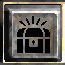
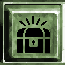
Info button added

diff --git a/src/RenderManager.cpp b/src/RenderManager.cpp
@@ -69,6 +69,7 @@ void RenderManager::PlayStateRender()
 
 	Draw(mSystem.GUIMgr.GetButton(BUTTONS::MUTE_BUTTON_ID).GetSprite());
 	Draw(mSystem.GUIMgr.GetButton(BUTTONS::UPGRADE_BUTTON_ID).GetSprite());
+	Draw(mSystem.GUIMgr.GetButton(BUTTONS::INFO_BUTTON_ID).GetSprite());
 
 	Draw(mSystem.GUIMgr.GetButton(BUTTONS::CLOSE_BUTTON_ID).GetSprite());
 	Draw(mSystem.GUIMgr.GetButton(BUTTONS::MINI_BUTTON_ID).GetSprite());
@@ -223,6 +224,31 @@ void RenderManager::DrawToolTip(sf::Vector2f mousePos)
 
 		float xPos = mousePos.x - (backgroundRect.getSize().x / 2.f);
 		float yPos = mousePos.y - backgroundRect.getSize().y - 10.f;
+		backgroundRect.setPosition(xPos, yPos);
+
+		tooltipText.setPosition(xPos + 10.f, yPos + 5.f);
+
+		mSystem.RenderMgr.Draw(backgroundRect);
+		mSystem.RenderMgr.Draw(tooltipText);
+	}
+	if (mSystem.GUIMgr.GetButton(BUTTONS::INFO_BUTTON_ID).GetSprite().getGlobalBounds().contains(mousePos))
+	{
+		sf::Text tooltipText;
+		tooltipText.setFont(mSystem.AssetMgr.GetFont(FONTS::LIGHT));
+		tooltipText.setString("        | How to Play |\n\n   Collect all the items\nby clicking on the chests.\n  Click ~Next Level~ to\n            move on.\n    Collect Gold and to\n       upgrade levels.\n  Use the Upgrade to add\n      up to four chests.\n\n           | Hotkeys |\n          M: Mute all\n      I: Open Inventory\n       U: Upgrade Level\n         N: Next Level");
+		tooltipText.setCharacterSize(25);
+		tooltipText.setFillColor(sf::Color::White);
+
+		sf::FloatRect textBounds = tooltipText.getLocalBounds();
+		float textWidth = textBounds.width;
+		float textHeight = textBounds.height;
+
+		sf::RectangleShape backgroundRect;
+		backgroundRect.setSize(sf::Vector2f(textWidth + 20.f, textHeight + 20.f));
+		backgroundRect.setFillColor(sf::Color(0, 0, 0, 200));
+
+		float xPos = mousePos.x - (backgroundRect.getSize().x / 2.f - 280.f);
+		float yPos = mousePos.y - backgroundRect.getSize().y + 280.f;
 		backgroundRect.setPosition(xPos, yPos);
 
 		tooltipText.setPosition(xPos + 10.f, yPos + 5.f);

diff --git a/src/AssetManager.cpp b/src/AssetManager.cpp
@@ -38,6 +38,7 @@ void AssetManager::InitializeTextureSprites()
     mTextures[TEXTURES::SORT_BUTTON]->loadFromFile("assets/graphics/sortbutton.png");
     mTextures[TEXTURES::CLOSE_BUTTON]->loadFromFile("assets/graphics/closebutton.png");
     mTextures[TEXTURES::MINI_BUTTON]->loadFromFile("assets/graphics/minibutton.png");
+    mTextures[TEXTURES::INFO_BUTTON]->loadFromFile("assets/graphics/infobutton.png");
     mTextures[TEXTURES::CHESTCLOSED]->loadFromFile("assets/graphics/chestclosed.png");
     mTextures[TEXTURES::CHESTOPENED]->loadFromFile("assets/graphics/chestopened.png");
     // MAPS
@@ -161,6 +162,7 @@ void AssetManager::InitializeTextureSprites()
     mSprites[SPRITES::SORT_BUTTON]->setTexture(GetTexture(TEXTURES::SORT_BUTTON));
     mSprites[SPRITES::CLOSE_BUTTON]->setTexture(GetTexture(TEXTURES::CLOSE_BUTTON));
     mSprites[SPRITES::MINI_BUTTON]->setTexture(GetTexture(TEXTURES::MINI_BUTTON));
+    mSprites[SPRITES::INFO_BUTTON]->setTexture(GetTexture(TEXTURES::INFO_BUTTON));
     // INVENTORY
     mSprites[SPRITES::INVENTORY]->setTexture(GetTexture(TEXTURES::INVENTORY));
     // PARTICLE
@@ -626,7 +628,7 @@ sf::Color AssetManager::GetColorForItemText(std::pair<ITEMID::ITEM, ITEMRARITY::
     }                         
 }
 
-sf::Color AssetManager::GetTextboxColor()
+sf::Color AssetManager::GetTextboxColor() const
 {
     return mTextboxColor;
 }
@@ -641,6 +643,7 @@ sf::Sprite& AssetManager::GetSpriteForButton(BUTTONS::BUTTON_TYPE button)
     case BUTTONS::SORT: return *mSprites[SPRITES::SORT_BUTTON];
     case BUTTONS::CLOSE: return *mSprites[SPRITES::CLOSE_BUTTON];
     case BUTTONS::MINI: return *mSprites[SPRITES::MINI_BUTTON];
+    case BUTTONS::INFO: return *mSprites[SPRITES::INFO_BUTTON];
     default: return *mSprites[SPRITES::INVENTORY_BUTTON];
     }
 }

diff --git a/src/GUIManager.cpp b/src/GUIManager.cpp
@@ -50,6 +50,7 @@ void GUIManager::ButtonInit()
     mButtons[BUTTONS::SORT_BUTTON_ID] = MakeSquareButton(BUTTONS::SORT, { 1700.f, 940.f });
     mButtons[BUTTONS::OPEN_INVENTORY_ID] = MakeButton(BUTTONS::WIDE, BUTTONS::OPEN_INVENTORY, mWindowCenter + sf::Vector2f{ 660.f, 500.f });
     mButtons[BUTTONS::MUTE_BUTTON_ID] = MakeSquareButton(BUTTONS::MUTE, {100.f,100.f});
+    mButtons[BUTTONS::INFO_BUTTON_ID] = MakeSquareButton(BUTTONS::INFO, {100.f,192.f});
     mButtons[BUTTONS::UPGRADE_BUTTON_ID] = MakeSquareButton(BUTTONS::UPGRADE, { 192.f, 100.f }); 
     mButtons[BUTTONS::CLOSE_BUTTON_ID] = MakeSquareButton(BUTTONS::CLOSE, { 1890.f, 30.f }); 
     mButtons[BUTTONS::MINI_BUTTON_ID] = MakeSquareButton(BUTTONS::MINI, { 1840.f, 30.f });
@@ -79,6 +80,7 @@ void GUIManager::PlayStateUpdate(sf::Vector2f mousePos, bool isClicked)
     mButtons[BUTTONS::OPEN_INVENTORY_ID]->HandleEvent(mousePos, isClicked);
     mButtons[BUTTONS::EXIT_PLAY_ID]->HandleEvent(mousePos, isClicked);
     mButtons[BUTTONS::MUTE_BUTTON_ID]->HandleEvent(mousePos, isClicked);
+    mButtons[BUTTONS::INFO_BUTTON_ID]->HandleEvent(mousePos, isClicked);
     mButtons[BUTTONS::UPGRADE_BUTTON_ID]->HandleEvent(mousePos, isClicked);
     mButtons[BUTTONS::SORT_BUTTON_ID]->HandleEvent(mousePos, isClicked);
     mButtons[BUTTONS::CLOSE_BUTTON_ID]->HandleEvent(mousePos, isClicked);

diff --git a/include/Assets.h b/include/Assets.h
@@ -12,6 +12,7 @@ namespace TEXTURES
 		SORT_BUTTON,
 		CLOSE_BUTTON,
 		MINI_BUTTON,
+		INFO_BUTTON,
 		INVENTORY,
 		WINSCREEN,
 		CHESTCLOSED,
@@ -122,6 +123,7 @@ namespace SPRITES
 		SORT_BUTTON,
 		CLOSE_BUTTON,
 		MINI_BUTTON,
+		INFO_BUTTON,
 		INVENTORY,
 		WINSCREEN,
 		CHESTCLOSED,
@@ -336,6 +338,7 @@ namespace BUTTONS
 		SORT,
 		CLOSE,
 		MINI,
+		INFO,
 		MAX_TYPES
 	};
 
@@ -362,6 +365,7 @@ namespace BUTTONS
 		SORT_BUTTON_ID,
 		CLOSE_BUTTON_ID,
 		MINI_BUTTON_ID,
+		INFO_BUTTON_ID,
 		MAX_BUTTONS_ID
 	};
 }

diff --git a/include/AssetManager.h b/include/AssetManager.h
@@ -22,7 +22,7 @@ public:
 	sf::Text&										GetTextForButtons(BUTTONS::BUTTON_TEXT text);
 	sf::Sprite&										GetSpriteForItem(ITEMID::ITEM item);
 	sf::Color										GetColorForItemText(std::pair<ITEMID::ITEM, ITEMRARITY::RARITY> item);
-	sf::Color										GetTextboxColor();
+	sf::Color										GetTextboxColor() const;
 	sf::Sprite&										GetSpriteForButton(BUTTONS::BUTTON_TYPE button);
 	sf::Sprite&										GetSpriteForGoldQuantity(int quantity);
 	sf::Font& GetFont(FONTS::FONT font);
